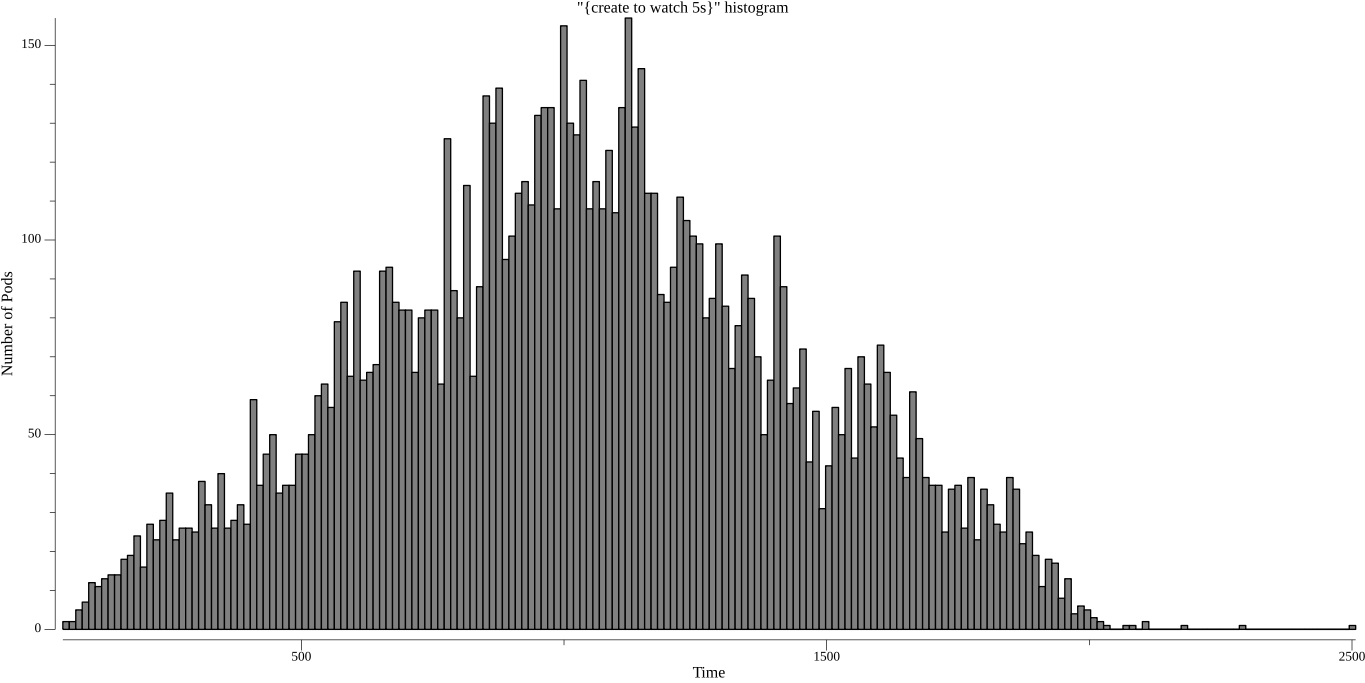
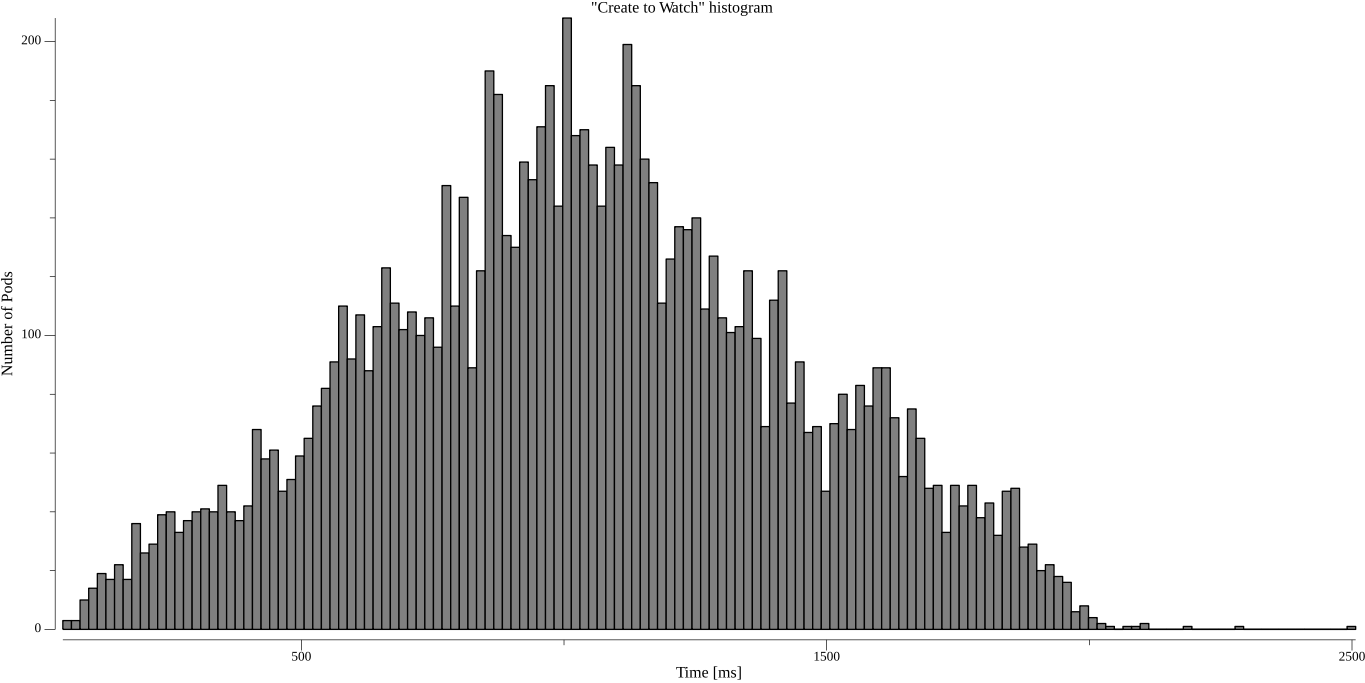
Small modifications to adjust plots

Changed region(s): [[0.0308, 0.0, 0.8308, 0.9224], [0.4923, 0.9531, 0.5538, 1.0], [0.0, 0.3382, 0.0308, 0.369]]

diff --git a/plotter/plotter.go b/plotter/plotter.go
@@ -36,6 +36,7 @@ var (
 	outputpath   string
 	plots        string
 	podstate     string
+	binsNumber   int
 )
 
 //go:generate stringer -type=AggregationType -linecomment
@@ -312,9 +313,10 @@ func createTimelinePlot(filename string, created DataForPlotting, scheduled Data
 	fmt.Println("\nCreating Timeline plot: \n")
 
 	p := plot.New()
-	p.Title.Text = "Timeline"
+	p.Title.Text = "Number of Pods vs Time"
 	p.X.Label.Text = "Time [s]"
 	p.Y.Label.Text = "Number of Pods"
+	p.Add(plotter.NewGrid())
 
 	addNewTimeLine("Created", p, created)
 	addNewTimeLine("Scheduled", p, scheduled)
@@ -345,7 +347,7 @@ func plotHistograms(dat []TimelineData, PodStateFilterSelector string) {
 	createToScheduleDf = createToScheduleDf.Select([]string{"Difference"})
 	createToScheduleDf = createToScheduleDf.Arrange(dataframe.Sort("Difference"))
 	createToScheduleValues := createDataForHistogramPlotting(parseHistogramDf(&createToScheduleDf))
-	err := createHistogramPlot("createtoschedule-hist.png", "{create schedule 0s}", createToScheduleValues)
+	err := createHistogramPlot("createtoschedule-hist.png", "Create to Schedule", createToScheduleValues)
 	if err != nil {
 		log.Fatalf("could not plot the data: %v", err)
 	}
@@ -355,7 +357,7 @@ func plotHistograms(dat []TimelineData, PodStateFilterSelector string) {
 	scheduleToRunDf = scheduleToRunDf.Select([]string{"Difference"})
 	scheduleToRunDf = scheduleToRunDf.Arrange(dataframe.Sort("Difference"))
 	scheduleToRunValues := createDataForHistogramPlotting(parseHistogramDf(&scheduleToRunDf))
-	err = createHistogramPlot("scheduletorun-hist.png", "{schedule run 0s}", scheduleToRunValues)
+	err = createHistogramPlot("scheduletorun-hist.png", "Schedule to Run", scheduleToRunValues)
 	if err != nil {
 		log.Fatalf("could not plot the data: %v", err)
 	}
@@ -365,7 +367,7 @@ func plotHistograms(dat []TimelineData, PodStateFilterSelector string) {
 	runToWatchDf = runToWatchDf.Select([]string{"Difference"})
 	runToWatchDf = runToWatchDf.Arrange(dataframe.Sort("Difference"))
 	runToWatchValues := createDataForHistogramPlotting(parseHistogramDf(&runToWatchDf))
-	err = createHistogramPlot("runtowatch-hist.png", "{run watch 0s}", runToWatchValues)
+	err = createHistogramPlot("runtowatch-hist.png", "Run to Watch", runToWatchValues)
 	if err != nil {
 		log.Fatalf("could not plot the data: %v", err)
 	}
@@ -375,7 +377,7 @@ func plotHistograms(dat []TimelineData, PodStateFilterSelector string) {
 	createToWatchDf = createToWatchDf.Select([]string{"Difference"})
 	createToWatchDf = createToWatchDf.Arrange(dataframe.Sort("Difference"))
 	createToWatchValues := createDataForHistogramPlotting(parseHistogramDf(&createToWatchDf))
-	err = createHistogramPlot("createtowatch-hist.png", "{create to watch 5s}", createToWatchValues)
+	err = createHistogramPlot("createtowatch-hist.png", "Create to Watch", createToWatchValues)
 	if err != nil {
 		log.Fatalf("could not plot the data: %v", err)
 	}
@@ -422,7 +424,7 @@ func createHistogramPlot(filename string, histogramName string, data DataForPlot
 	defer f.Close()
 
 	p := plot.New()
-	p.X.Label.Text = "Time"
+	p.X.Label.Text = "Time [ms]"
 	p.Y.Label.Text = "Number of Pods"
 
 	addHistogram(histogramName, p, data)
@@ -442,8 +444,6 @@ func createHistogramPlot(filename string, histogramName string, data DataForPlot
 
 func addHistogram(histogramName string, p *plot.Plot, dataPoints DataForPlotting) {
 	pxys := make(plotter.XYs, len(dataPoints))
-
-	binsNumber := 200
 
 	for j, elem := range dataPoints {
 		pxys[j].X = elem.timeStamp
@@ -489,7 +489,8 @@ func createDataForPieChart(groups map[string]dataframe.DataFrame) DataForPieChar
 		}
 		var ps PieSlice
 		ps.numOfElems = elem.Elem(0, 0).Float()
-		ps.transitionPhase = elem.Elem(0, 1).String()
+		elemName := elem.Elem(0, 1).String()
+		ps.transitionPhase = elemName[1 : len(elemName)-4]
 		values = append(values, ps)
 	}
 	return values
@@ -564,6 +565,7 @@ func initFlags() {
 	flag.StringVar(&outputpath, "outputpath", ".", "Specify the path for the output PNG files. ")
 	flag.StringVar(&podstate, "podstate", "Stateless", "Specify the state of Pods. ")
 	flag.StringVar(&plots, "plots", "all", "Specify types of plots, separate with ',' ")
+	flag.IntVar(&binsNumber, "bins", 150, "Speficy number of bins for histogram plots. ")
 	flag.Parse()
 }
 
